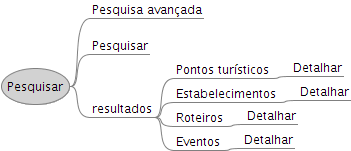
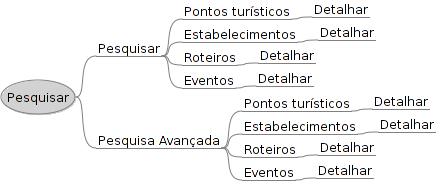
atualizacao do caso de uso pesquisar, revisao dos diagramas de navegacao e revisao do modelo de dominio (falta alterar, os erros foram apenas identificados)

Changed region(s): [[0.0, 0.0265, 1.0, 1.0], [0.8262, 0.3974, 0.9687, 0.4768]]

diff --git a/documentacao/DiagramasNavegacao/Manter pontoTuristico/manterPontoTuristico.mm b/documentacao/DiagramasNavegacao/Manter pontoTuristico/manterPontoTuristico.mm
@@ -12,6 +12,7 @@
 <node CREATED="1253023240758" ID="Freemind_Link_1262284920" MODIFIED="1253023750181" TEXT="Detalhar" VSHIFT="16">
 <node CREATED="1253023398428" ID="Freemind_Link_751374187" MODIFIED="1253023400771" TEXT="Adicionar tag">
 <node CREATED="1253023412421" ID="Freemind_Link_732362340" MODIFIED="1253023413477" TEXT="Salvar"/>
+<node CREATED="1253109628175" ID="Freemind_Link_343983155" MODIFIED="1253109631845" TEXT="Apagar"/>
 <node CREATED="1253023414658" ID="Freemind_Link_1147155926" MODIFIED="1253023418377" TEXT="Voltar"/>
 </node>
 <node CREATED="1253023430475" ID="Freemind_Link_1665649547" MODIFIED="1253023754835" TEXT="Pesquisar tag na cidade" VSHIFT="8">
@@ -25,7 +26,7 @@
 <node CREATED="1253101235134" ID="Freemind_Link_1434633921" MODIFIED="1253101236657" TEXT="Voltar"/>
 </node>
 <node CREATED="1253101238304" ID="Freemind_Link_692683979" MODIFIED="1253101243496" TEXT="Apagar avalia&#xe7;&#xe3;o"/>
-<node CREATED="1253023590004" ID="Freemind_Link_1286250133" MODIFIED="1253023757115" TEXT="Nova dicao" VSHIFT="5">
+<node CREATED="1253023590004" ID="Freemind_Link_1286250133" MODIFIED="1253109709599" TEXT="Nova dica" VSHIFT="5">
 <node CREATED="1253023598645" ID="Freemind_Link_1900614142" MODIFIED="1253023599679" TEXT="Salvar"/>
 <node CREATED="1253023600743" ID="Freemind_Link_898643252" MODIFIED="1253023601819" TEXT="Voltar"/>
 </node>

diff --git a/documentacao/DiagramasNavegacao/Atribuir tag/atribuirTag.mm b/documentacao/DiagramasNavegacao/Atribuir tag/atribuirTag.mm
@@ -1,7 +1,7 @@
-<map version="0.8.1">
-<!-- To view this file, download free mind mapping software FreeMind from http://freemind.sourceforge.net -->
-<node CREATED="1253102677189" ID="Freemind_Link_831026394" MODIFIED="1253102760217" TEXT="Adicionar tag">
-<node CREATED="1253102761126" ID="_" MODIFIED="1253102762295" POSITION="right" TEXT="Salvar"/>
-<node CREATED="1253102763396" ID="Freemind_Link_272647271" MODIFIED="1253102764397" POSITION="right" TEXT="Voltar"/>
+<map version="0.7.1">
+<node ID="_Freemind_Link_831026394" TEXT="Adicionar tag">
+<node ID="_" TEXT="Salvar" POSITION="right"/>
+<node TEXT="Retirar" POSITION="right"/>
+<node ID="_Freemind_Link_272647271" TEXT="Voltar" POSITION="right"/>
 </node>
 </map>

diff --git a/documentacao/DiagramasNavegacao/Avaliar tema/avaliarTema.mm b/documentacao/DiagramasNavegacao/Avaliar tema/avaliarTema.mm
@@ -9,8 +9,6 @@
 <node CREATED="1253102947190" ID="Freemind_Link_579018356" MODIFIED="1253102952212" TEXT="Avaliar">
 <node CREATED="1253102953696" ID="Freemind_Link_120179671" MODIFIED="1253102955152" TEXT="Salvar"/>
 <node CREATED="1253102956657" ID="Freemind_Link_385625493" MODIFIED="1253102957773" TEXT="Voltar"/>
-<node CREATED="1253102958988" ID="Freemind_Link_749250146" MODIFIED="1253102963972" TEXT="Editar outra avalia&#xe7;&#xe3;o"/>
-<node CREATED="1253102965277" ID="Freemind_Link_146245018" MODIFIED="1253102969136" TEXT="Apagar outra avalia&#xe7;&#xe3;o"/>
 </node>
 </node>
 </node>
